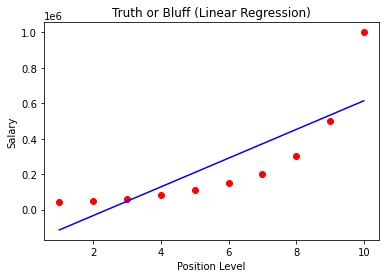
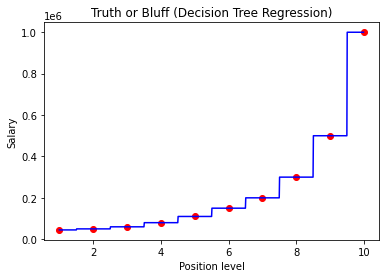
Day 6
Decision Tree Regression

diff --git a/Code/Day 6 Decision Tree Regression.md b/Code/Day 6 Decision Tree Regression.md
@@ -1,0 +1,72 @@
+## Importing the libraries
+
+
+```python
+import pandas as pd
+import numpy as np
+import matplotlib.pyplot as plt
+```
+
+## Importing the Dataset
+
+
+```python
+df = pd.read_csv("Position_Salaries.csv")
+X = df.iloc[:,1:-1].values
+y = df.iloc[:,-1].values
+```
+
+## Training the Decision Tree Regression model on the whole dataset
+
+
+```python
+from sklearn.tree import DecisionTreeRegressor
+regressor = DecisionTreeRegressor()
+regressor.fit(X, y)
+```
+
+
+
+
+    DecisionTreeRegressor()
+
+
+
+## Predicting a new result
+
+
+```python
+regressor.predict([[6.5]])
+```
+
+
+
+
+    array([150000.])
+
+
+
+## Visualising the Decision Tree Regression results (higher resolution)
+
+
+```python
+X_grid = np.arange(min(X), max(X), 0.01)
+X_grid = X_grid.reshape((len(X_grid), 1))
+plt.scatter(X, y, color = "red")
+plt.plot(X_grid, regressor.predict(X_grid), color = "Blue")
+plt.title('Truth or Bluff (Decision Tree Regression)')
+plt.xlabel('Position level')
+plt.ylabel('Salary')
+plt.show()
+```
+
+
+    
+![png](output_9_0.png)
+    
+
+
+
+```python
+
+```
